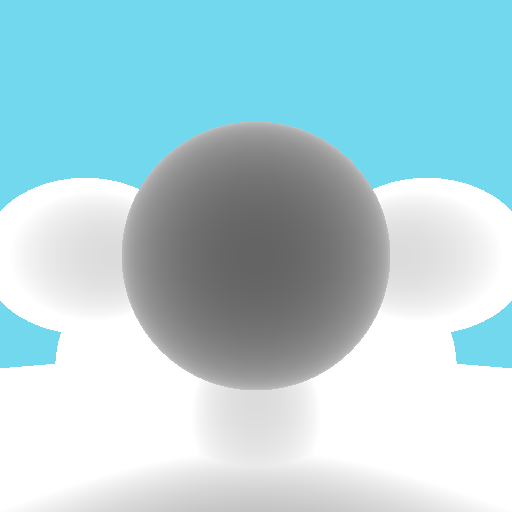
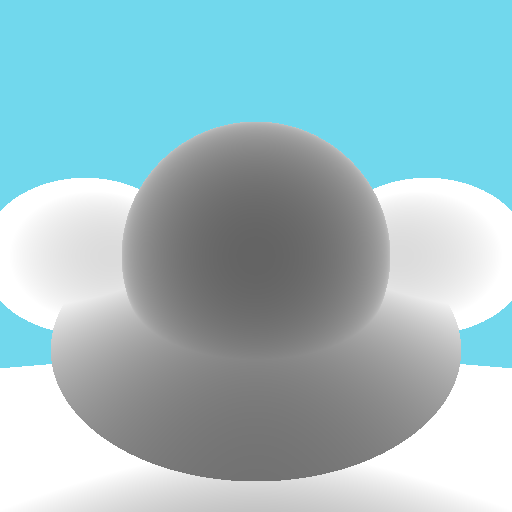
scene changes

Changed region(s): [[0.0938, 0.5625, 0.9062, 0.9375]]

diff --git a/src/App.java b/src/App.java
@@ -28,10 +28,8 @@ class App {
 
         geometries.add(new Sphere(new Point( 200, 000, 150), 100));
         geometries.add(new Sphere(new Point(-200, 000, 150), 100));
-        geometries.add(new Sphere(new Point( 000,-200, 150), 100));
 
-        geometries.add(new Plane(new Vector( 90,-45, 90), new Point( 100,-100, 150), 120));
-        geometries.add(new Plane(new Vector(-90,-45, 90), new Point(-100,-100, 150), 120));
+        geometries.add(new Plane(new Vector(0, -200, 100), new Point(0, 0, 150), 200));
 
         Camera camera = new Camera(new Point(0, 0, -100), new Point(0, 0, 0), 110, size, size);
 
@@ -80,6 +78,8 @@ class App {
                 System.out.println(e.getMessage());
             }
         }
+
+
 
     static void screen(){
         int size = 512;

diff --git a/src/geometry/Camera.java b/src/geometry/Camera.java
@@ -17,7 +17,6 @@ public class Camera {
     Vector right;
 
     public Camera(Point pos, Point lookAt, double fovDeg, int width, int height) {
-        // TODO: Cleanup variables at the end
         this.pos = pos;
         this.lookAt = lookAt;
         this.fov = Math.toRadians(fovDeg);
